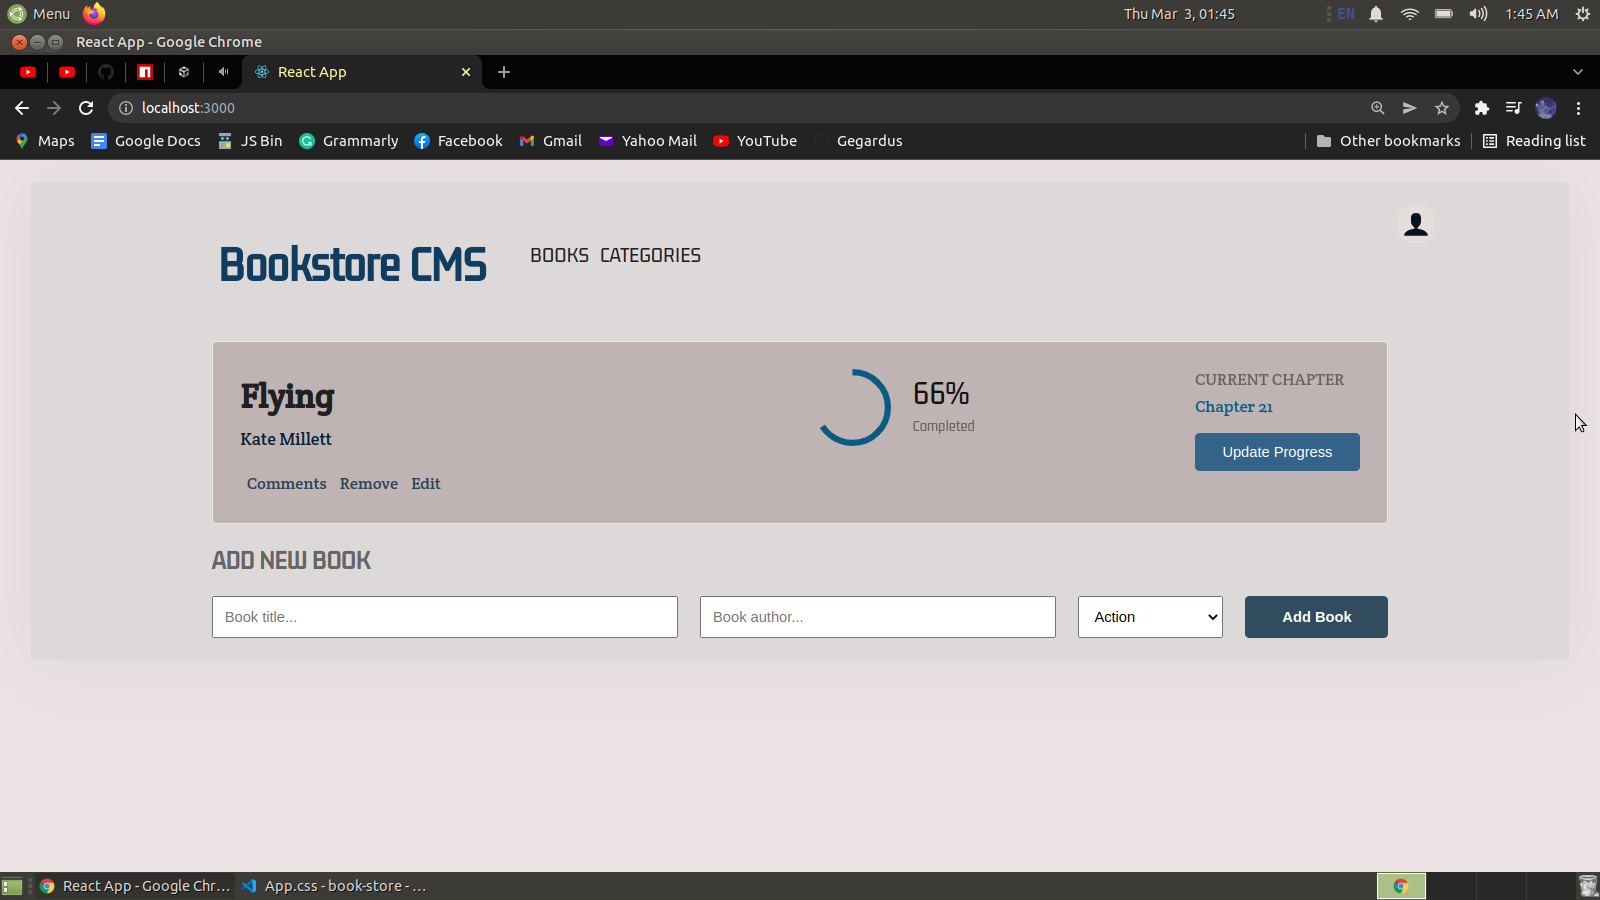
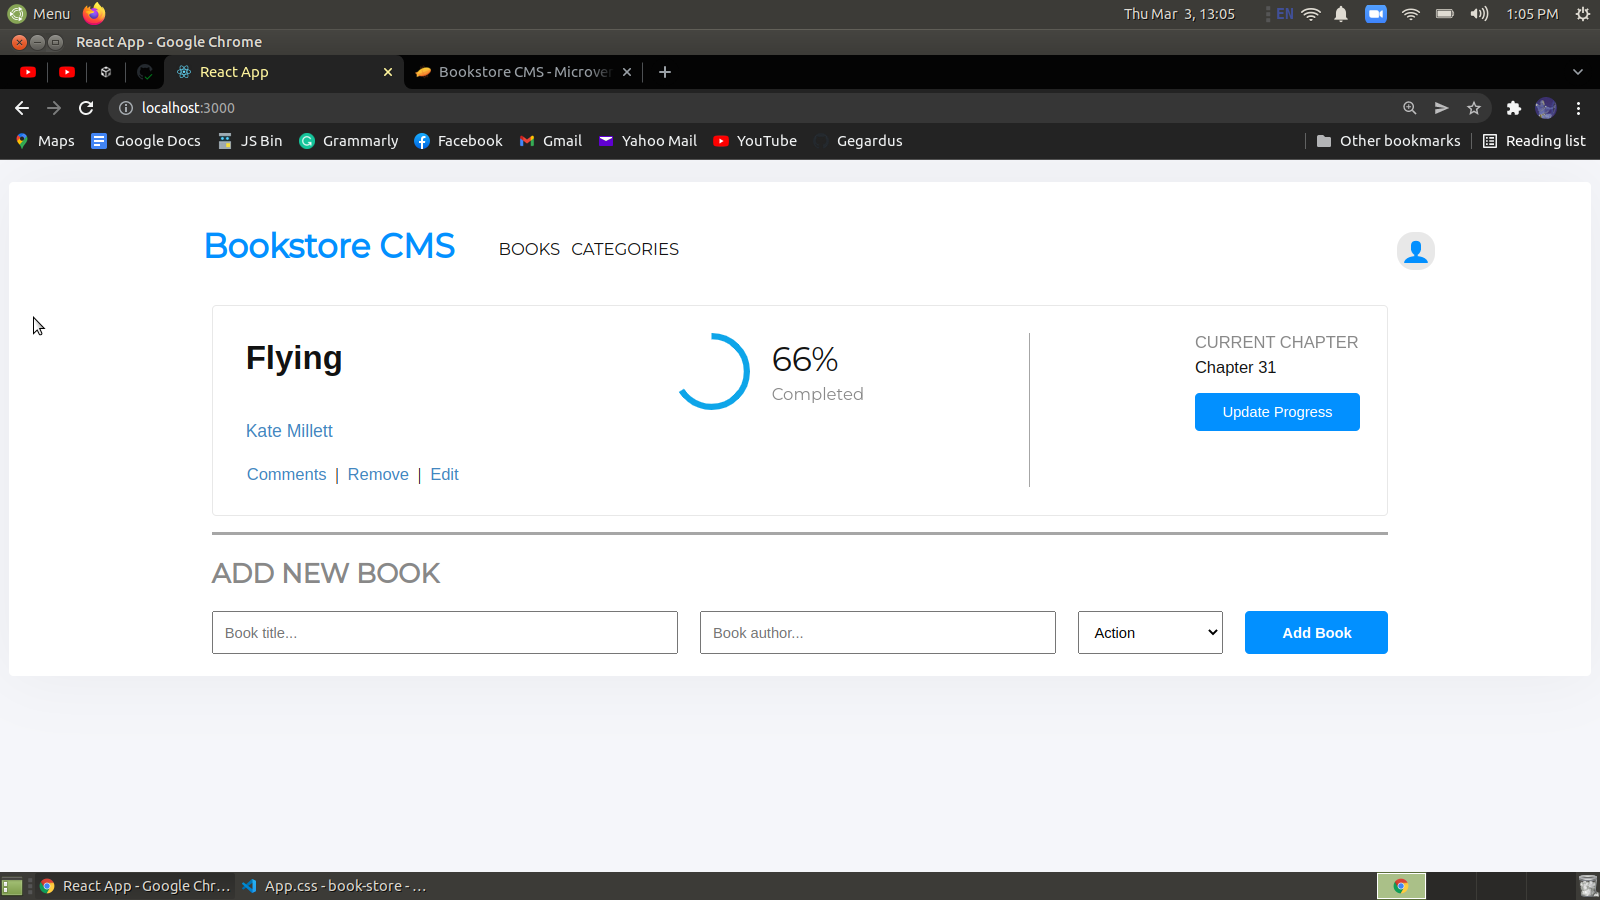
Update styles

diff --git a/src/App.css b/src/App.css
@@ -1,79 +1,87 @@
-@import url("https://fonts.googleapis.com/css2?family=Gemunu+Libre&display=swap");
-@import url("https://fonts.googleapis.com/css2?family=Crete+Round&family=Inter:wght@300&family=Poppins:wght@100&family=Roboto&display=swap");
+@import url("https://fonts.googleapis.com/css?family=Montserrat");
+@import url("https://fonts.googleapis.com/css?family=Roboto Slab'");
 
-body {
-  background-color: rgb(235, 227, 227);
-  font-family: "Gemunu Libre", "MyWebFont", Fallback, sans-serif;
+body {  
+  background-color: #f5f6fa;  
 }
 
 .container {
   display: flex;
   flex-direction: column;
-  align-items: center;
-  background-color: rgb(221, 217, 217);
+  align-items: center; 
+  background-color: #fff;
   margin: 20px 20px;
   padding: 20px 10px;
   border-radius: 4px;
   box-shadow: 0 0 60px 0 rgba(0, 0, 0, 0.05);
 }
 
+.container {
+  margin: 20px 0;
+}
+
 .header {
-  margin-left: 160px;
-  align-self: flex-start;
+  margin-left: 166px; 
   display: flex;
+  align-self: flex-start;
 }
 
 .title {
-  color: #103d5f;
-  font-size: 45px;
+  color: #0290ff;
+  font-family: 'Montserrat', sans-serif;
+  font-size: 30px;
 }
 
 .nav-links {
   list-style-type: none;
   display: flex;
   gap: 10px;
-  font-size: 20px;
-  margin-top: 35px;
+  font-size: 15px;
+  margin-top: 32px;
 }
 
 .nav-item {
   text-decoration: none;
-  color: #202020;
+  color: #121212;
+  font-family: 'Montserrat', sans-serif;
 }
 
 .user-icon-c {
   position: absolute;
-  border-radius: 15px;
-  background-color: #e7dcdc;
+  border-radius: 15px;  
+  background-color: #e8e8e8;
   height: 35px;
   right: 150px;
+  margin-top: 25px;
 }
 
-.user-icon {
-  color: #05131d;
+.user-icon { 
+  color: #0290ff;
   font-size: 25px;
-  padding: 5px;
+  padding: 5px; 
   cursor: pointer;
 }
 
 .book-container {
   display: flex;
-  gap: 20px;
+  flex-direction: row;
+  justify-content: space-between;
+  gap: 150px;  
   border-radius: 4px;
   border: solid 1px #e8e8e8;
-  background-color: rgb(192, 179, 179);
+  background-color:  #fff;
   padding: 25px;
-  margin: 15px 0;
-  flex-direction: column;
+  margin: 15px 0;  
 }
 
 .add-book {
-  color: rgb(102, 100, 100);
+  color: #888;
+  font-family: 'Montserrat', sans-serif;
 }
 
 .form {
   display: flex;
-  flex-direction: column;
+  flex-direction: row;
   gap: 20px;
 }
 
@@ -92,8 +100,8 @@ body {
 }
 
 .add-book-btn {
-  width: 130px;
-  background-color: #324c5f;
+  width: 130px; 
+  background-color: #0290ff;
   color: #fff;
   font-weight: bold;
   border: none;
@@ -102,7 +110,8 @@ body {
 }
 
 .bookList {
-  color: #202020;
+  color: #121212;
+  font-family: 'Montserrat', sans-serif;
 }
 
 .title-container {
@@ -112,19 +121,20 @@ body {
 }
 
 .book-title {
-  color: #202020;
-  font-family: "Crete Round", sans-serif;
-  font-size: 30px;
-  margin: 0;
+  color: #121212;
+  font-family: 'RobotoSlab', sans-serif;
+  font-size: 30px; 
   margin-top: 5px;
+  margin-left: 5px;
 }
 
-.book-author {
-  color: #051f36;
-  font-family: "Crete Round", sans-serif;
+.book-author {  
+  color: #4386bf;
+  font-family: 'RobotoSlab', sans-serif;
   font-size: 16px;
   margin-top: 10px;
   margin-bottom: 20px;
+  margin-left: 5px;
   font-weight: 300;
 }
 
@@ -132,23 +142,23 @@ body {
   display: flex;
 }
 
-.remove-btn {
-  color: #2c4255;
+.remove-btn { 
+  color: #4386bf;
   border: none;
   background-color: transparent;
   cursor: pointer;
-  font-family: "Crete Round", sans-serif;
+  font-family: 'RobotoSlab', sans-serif;
   font-size: 15px;
 }
 
 .progress-bar-c {
-  display: flex;
-  gap: 20px;
+  display: flex; 
+  gap: 20px;  
 }
 
 .progress-bar {
   height: 70px;
-  width: 70px;
+  width: 70px; 
 }
 
 .progress-value-c {
@@ -158,6 +168,7 @@ body {
 }
 
 .progress-percentage {
+  font-family: 'Montserrat', sans-serif;
   font-size: 30px;
   margin: 0;
   color: #121212;
@@ -167,6 +178,7 @@ body {
 .progress-completed {
   margin: 0;
   margin-top: 5px;
+  font-family: 'Montserrat', sans-serif;
   color: #121212;
   opacity: 0.5;
   font-size: 15px;
@@ -174,13 +186,13 @@ body {
 
 .update-progg-c {
   display: flex;
-  flex-direction: column;
+  flex-direction: column;      
 }
 
 .chapter {
   color: #121212;
   opacity: 0.5;
-  font-family: "Crete Round", sans-serif;
+  font-family: 'RobotoSlab', sans-serif;
   margin: 0;
   font-size: 15px;
   font-weight: 300;
@@ -188,7 +200,7 @@ body {
 
 .chapterth {
   color: #121212;
-  font-family: "Crete Round", sans-serif;
+  font-family: 'RobotoSlab', sans-serif;
   margin: 0;
   margin-top: 5px;
   margin-bottom: 15px;
@@ -197,8 +209,8 @@ body {
 }
 
 .update-progg-btn {
-  width: 150px;
-  background-color: #336388;
+  width: 150px;  
+  background-color: #0290ff;
   color: #fff;
   border: none;
   border-radius: 4px;
@@ -207,17 +219,24 @@ body {
 }
 
 .category {
-  color: #510994;
+  color: #0290ff;
+  font-family: 'Montserrat', sans-serif;
 }
 
-@media screen and (min-width: 1080px) {
-  .book-container {
-    flex-direction: row;
-    gap: 200px;
-  }
+.hr {
+  margin: 0 auto;
+  height: 2px;
+  color: rgba(0, 0, 0, 0.35);
+  background-color: rgba(0, 0, 0, 0.35);
+}
 
-  .form {
-    display: flex;
-    flex-direction: row;
-  }
+.line {
+  width: 3px;
+  height: 140px;
+  background-color: rgba(0, 0, 0, 0.35);
+  margin: 0;
+}
+
+.button-separator {
+  margin: 0 2px;
 }

diff --git a/src/components/bookComponents/BookItem.js b/src/components/bookComponents/BookItem.js
@@ -27,7 +27,9 @@ const BookItem = (props) => {
         </h3>
         <div className="book-btns">
           <button className="remove-btn" type="button">Comments</button>
+          <span className="button-separator">| </span>
           <button className="remove-btn" type="button" onClick={removeBookFromStore}>Remove</button>
+          <span className="button-separator">| </span>
           <button className="remove-btn" type="button">Edit</button>
         </div>
       </div>
@@ -45,6 +47,7 @@ const BookItem = (props) => {
           <p className="progress-completed">Completed</p>
         </div>
       </div>
+      <div className="line" />
       <div className="update-progg-c">
         <h2 className="chapter">CURRENT CHAPTER</h2>
         <h3 className="chapterth">

diff --git a/src/components/Books.js b/src/components/Books.js
@@ -5,6 +5,7 @@ import BookList from './bookComponents/BookList';
 const Books = () => (
   <main>
     <BookList />
+    <div className="hr">&nbsp;</div>
     <h2 className="add-book">ADD NEW BOOK</h2>
     <AddForm />
   </main>
